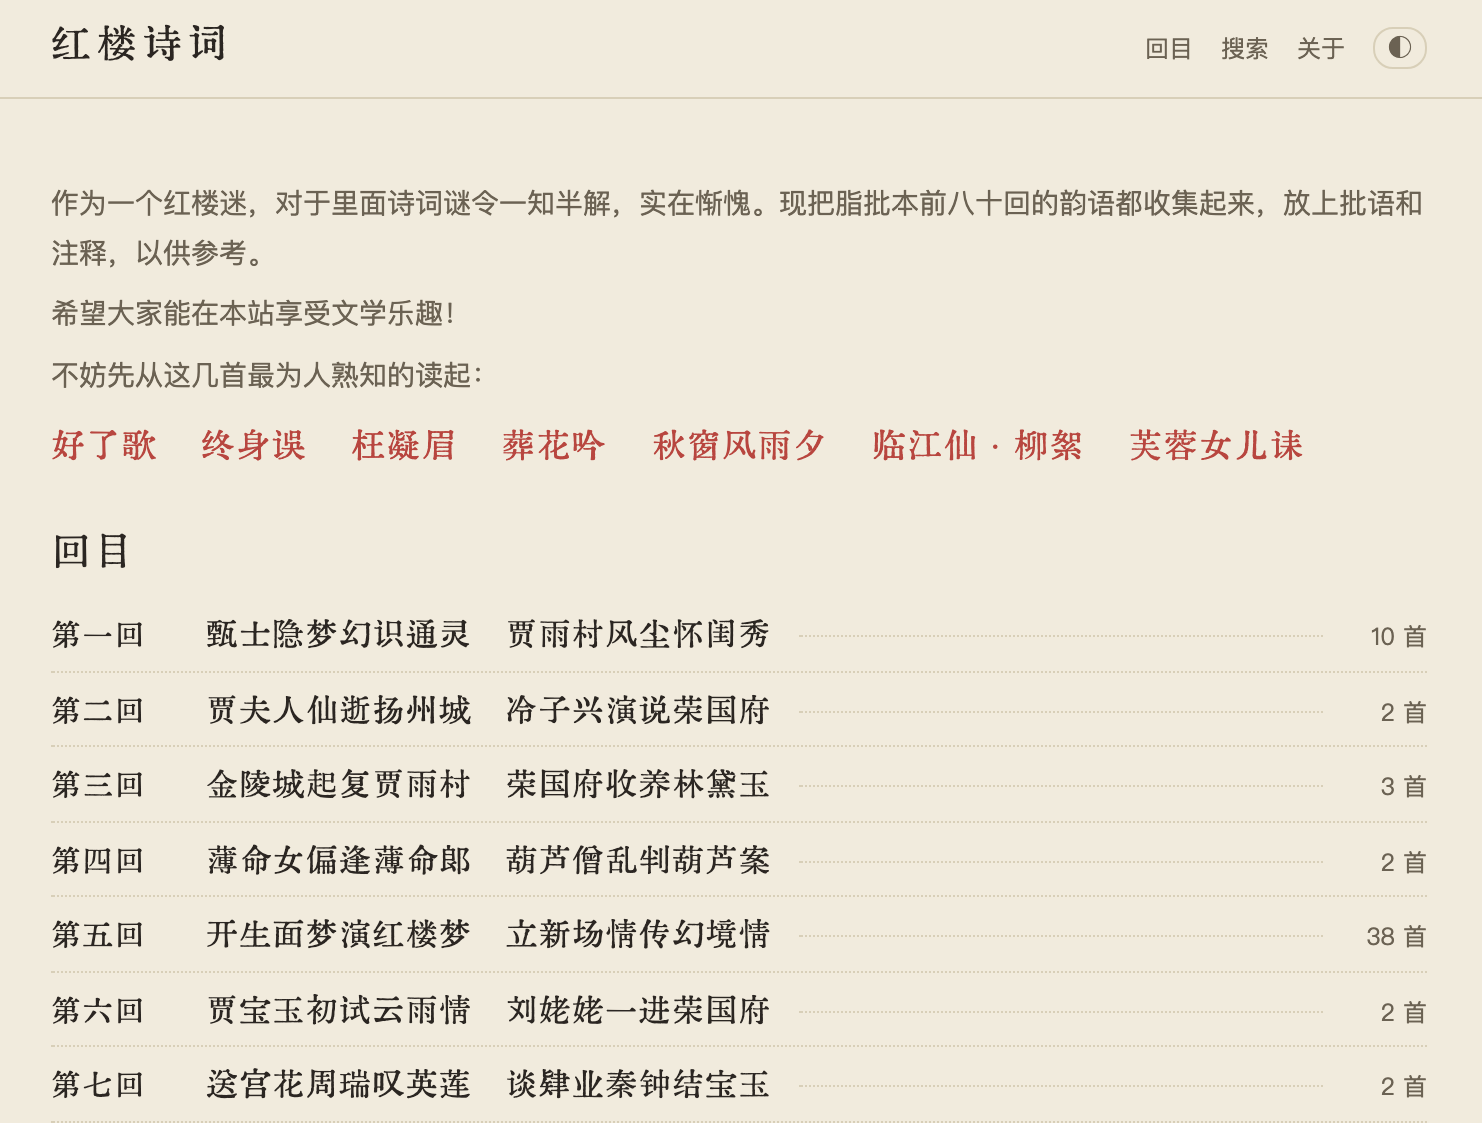
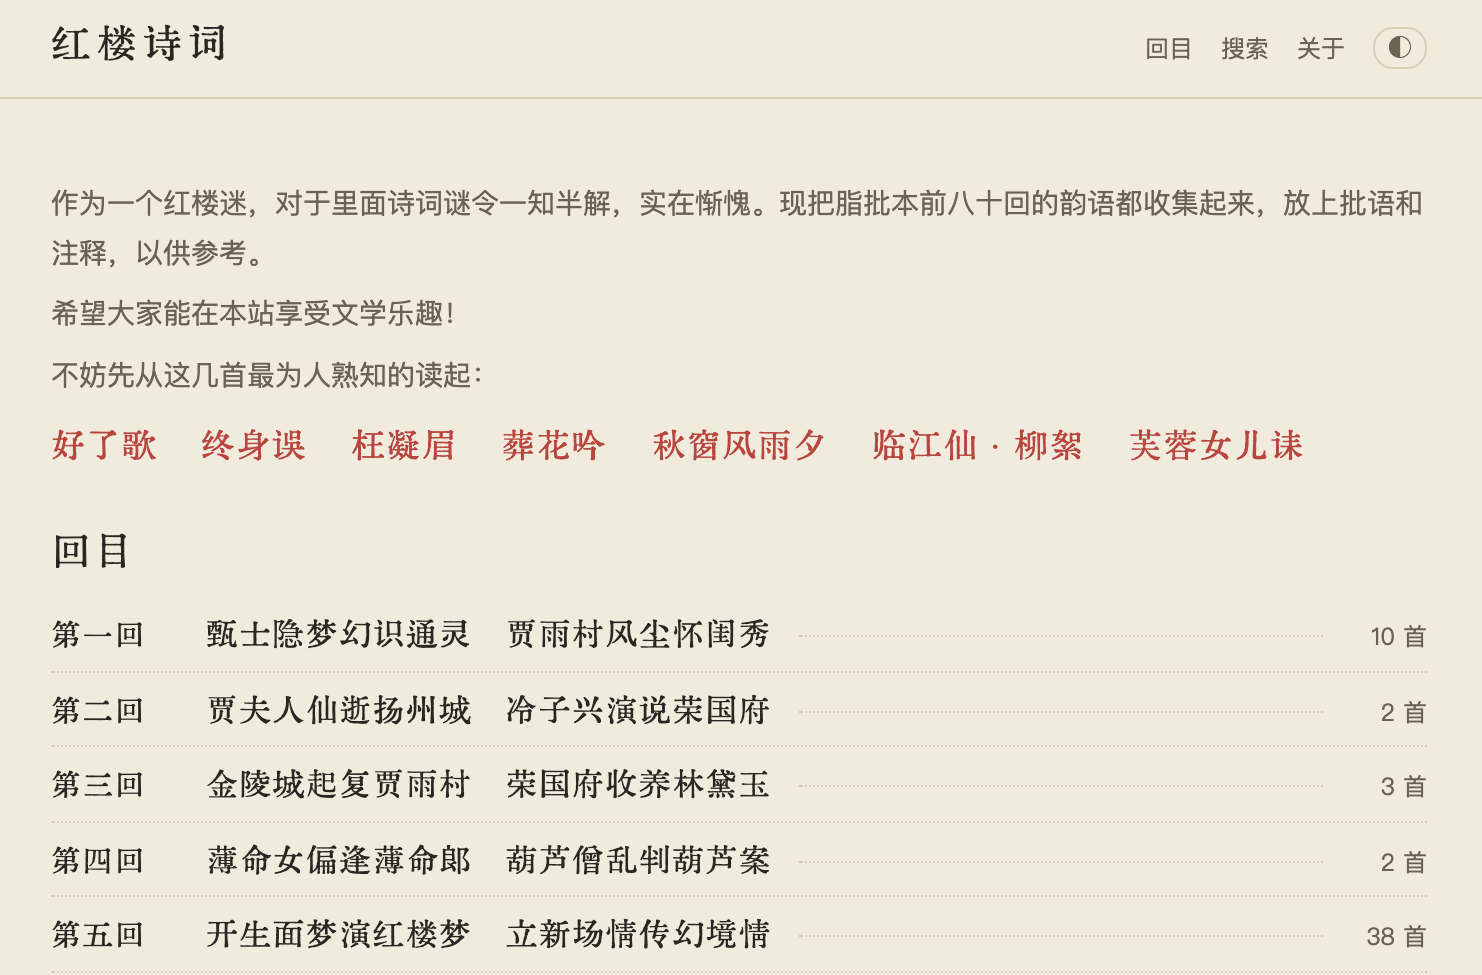
finish hongloumeng post

diff --git a/content/posts/honglou-meng-and-tang-poetry/index.md b/content/posts/honglou-meng-and-tang-poetry/index.md
@@ -7,10 +7,10 @@ tags: ["personal", "poetry", "interest"]
 category: "essay"
 ShowToc: true
 cover:
-  image: "desktop-home.png"
+  image: "hongloumeng-aesthetics.jpg"
 ---
 
-[Honglou Meng (Dream of the Red Chamber)](https://en.wikipedia.org/wiki/Dream_of_the_Red_Chamber) is to Chinese as  War and Peace is to Russians and A Hundred Years of Solitude is to Colombians. Although I doubt Honglou Meng is as widely known by non-Chinese readers as the other two canonical works of literature. It is even true that most educated Chinese readers in the 21st century have not read the original book. Written in the 18th century during the Qing Dynasty, the influence of Honglou Meng has been largely spread by educated elites, theater, and movie and TV adaptations. Nevertheless, almost every Chinese speaking person knows Honglou Meng’s protagonists Lin Daiyu and Jiao Baoyu as cultural characters. 
+{{< newtabref href="https://en.wikipedia.org/wiki/Dream_of_the_Red_Chamber" title="Honglou Meng (Dream of the Red Chamber)" >}} is to Chinese as  War and Peace is to Russians and A Hundred Years of Solitude is to Colombians. Although I doubt Honglou Meng is as widely known by non-Chinese readers as the other two canonical works of literature. It is even true that most educated Chinese readers in the 21st century have not read the original book. Written in the 18th century during the Qing Dynasty, the influence of Honglou Meng has been largely spread by educated elites, theater, and movie and TV adaptations. Nevertheless, almost every Chinese speaking person knows Honglou Meng’s protagonists Lin Daiyu and Jiao Baoyu as cultural characters. 
 
 《红楼梦》之于华人就像《战争与和平》之于俄罗斯人或者《百年孤独》之于哥伦比亚人。遗憾的是相较于这两本经典，中文世界之外的读者对于《红楼梦》知之甚少。我甚至认为读过《红楼梦》原书华人也是极为有限的。写于清代的《红楼梦》在华人世界的影响力是几百年来通过文人贵族、戏剧、电影、电视改编来传播的。但毋庸置疑的是，几乎所有华人都知道林黛玉和贾宝玉的形象和性格。
 
@@ -18,7 +18,7 @@ Honglou Meng is challenging to read even for a college-educated Chinese reader, 
 
 《红楼梦》对于当代人来说很难读——太长了，且语言和现代汉语有隔阂。我现在所读脂砚斋本前八十回就有洋洋洒洒四大本五十万字，其语言是清代白话夹杂各种诗词文言。普通读者虽能通过清朝人说话方式和诗词文言大致理解剧情，但其细微之处确实不易懂。
 
-{{< figurelightbox src="hongloumeng-aesthetics.jpg" caption="Honglou meng aesthetics" align="center" width="100%" >}}
+{{< figurelightbox src="hongloumeng-version.jpg" caption="The Red Inkstone (Zhiyanzhai) commentary edition I'm reading: traditional Chinese, with commentary." align="center" width="100%" >}}
 
 I first started reading Honglou Meng when I was about 12, and it was honestly not fun. I powered through the first 20 chapters then gave up. The language was difficult and I was too young to understand the motifs and dynamics of characters in the book. 
 
@@ -32,8 +32,12 @@ Therefore, I created two small sites to help readers understand the verses in Ho
 
 所以我有空就开发了两个小站，让大家能够看到红楼梦每个章回诗词歌赋的白话和背景解释，且能够像香菱一样跟着林黛玉学诗。无论用手机或电脑，用浏览器打开就可以阅读，不需下载任何软件或注册。
 
-* [红楼诗词(Honglou verse)](https://honglou.andreagao.com/)
-* [香菱学诗(Xiangling learning poetry)](https://xiangling.andreagao.com/)
+* {{< newtabref href="https://honglou.andreagao.com/" title="红楼诗词(Honglou verse)" >}}
+* {{< newtabref href="https://xiangling.andreagao.com/" title="香菱学诗(Xiangling learning poetry)" >}}
+
+{{< figurelightbox src="desktop-home.png" caption="红楼诗词 · Honglou verse" align="center" width="100%" >}}
+
+{{< figurelightbox src="xiangling-home.png" caption="香菱学诗 · Xiangling learning poetry" align="center" width="100%" >}}
 
 The goal is to provide easy access to digest verses in Honglou Meng and learn the other crown jewel of Chinese literature: Tang poetry. 
 
